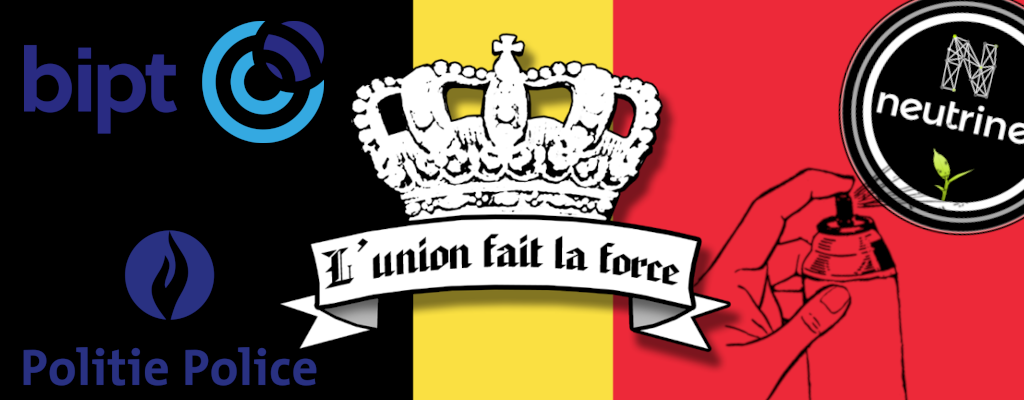
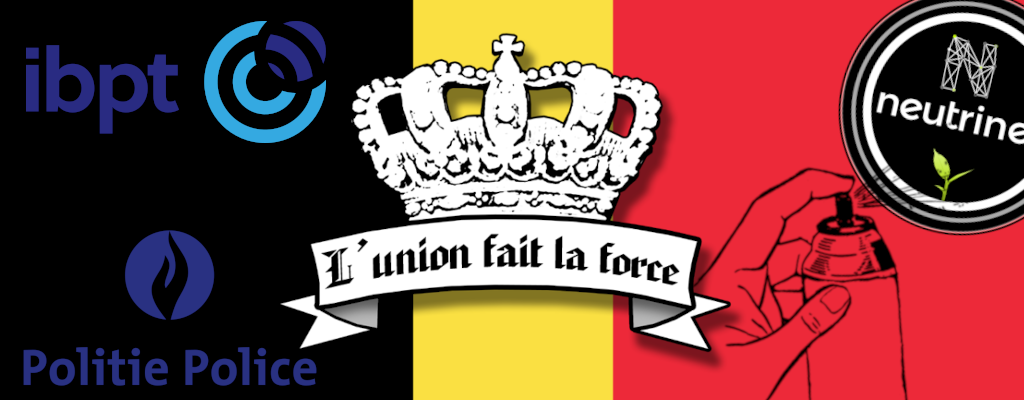
ccj - ajout sources images

Changed region(s): [[0.0, 0.06, 0.3125, 0.36]]

diff --git a/pages/07.blog/ccj/item.fr.md b/pages/07.blog/ccj/item.fr.md
@@ -113,6 +113,6 @@ Ces techniciens sont également tenus de respecter l’obligation de secret.
 Les images sont issues de
 
 * L'union fait la force de [sticker express](https://www.stickers-express.fr/belgique/2497-l-union-fait-la-force.html)
-* logo IBPT depuis le [site de l'IBPT]()
+* logo IBPT depuis le [site de l'IBPT](https://ibpt.be/bundles/emsch_assets/static/logo-fr-text.svg)
 * logo police nationnale depuis le site de [Wikipedia](https://upload.wikimedia.org/wikipedia/uk/thumb/e/ee/%D0%9B%D0%BE%D0%B3%D0%BE%D1%82%D0%B8%D0%BF_%D0%A4%D0%B5%D0%B4%D0%B5%D1%80%D0%B0%D0%BB%D1%8C%D0%BD%D0%BE%D1%97_%D0%BF%D0%BE%D0%BB%D1%96%D1%86%D1%96%D1%97_%D0%91%D0%B5%D0%BB%D1%8C%D0%B3%D1%96%D1%97.png/250px-%D0%9B%D0%BE%D0%B3%D0%BE%D1%82%D0%B8%D0%BF_%D0%A4%D0%B5%D0%B4%D0%B5%D1%80%D0%B0%D0%BB%D1%8C%D0%BD%D0%BE%D1%97_%D0%BF%D0%BE%D0%BB%D1%96%D1%86%D1%96%D1%97_%D0%91%D0%B5%D0%BB%D1%8C%D0%B3%D1%96%D1%97.png)
 * spray de [Openclipart](https://openclipart.org/detail/324448/hand-spray-paint)
